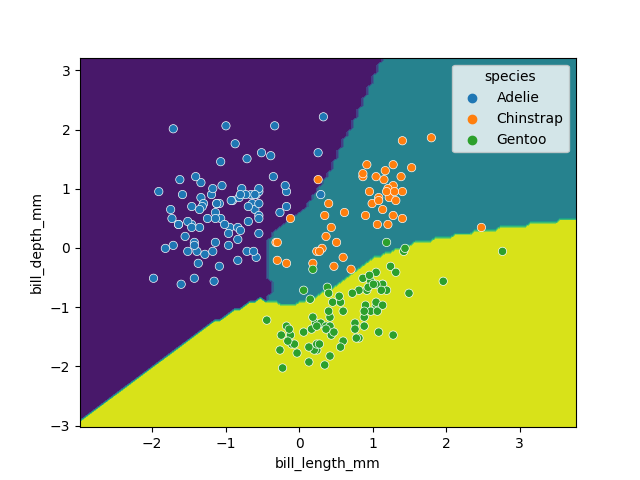
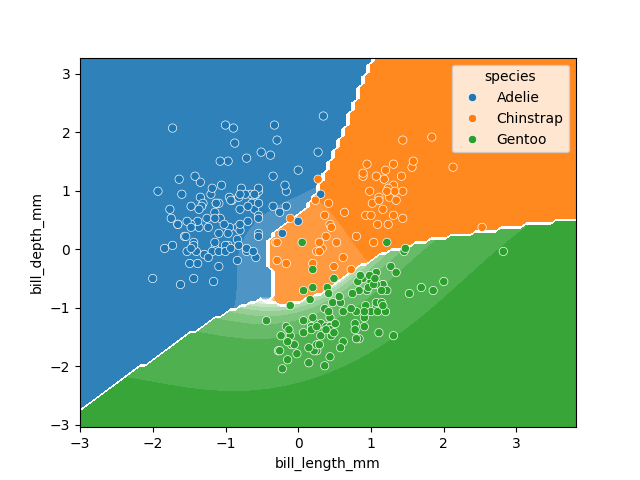
markdown source builds
Auto-generated via `{sandpaper}`
Source  : 87ff566480272c3a399abc1b97865478ae7ffe02
Branch  : main
Author  : Sam Mangham <mangham@gmail.com>
Time    : 2026-03-17 09:34:42 +0000
Message : Merge pull request #2 from SRSG-Workshops/ep03-classification

Regression tweaks

diff --git a/03-classification.md b/03-classification.md
@@ -30,7 +30,12 @@ As a rule of thumb for ML/DL modelling, it is best to start with a simple model 
 
 For this lesson we will limit our dataset to only numerical values such as bill\_length, bill\_depth, flipper\_length, and body\_mass while we attempt to classify species.
 
-The above table contains multiple categorical objects such as species. If we attempt to include the other categorical fields, island and sex, we might hinder classification performance due to the complexity of the data.
+The above table contains multiple categorical objects such as species. 
+If we attempt to include the other categorical fields, island and sex, 
+we might hinder classification performance due to the complexity of the data. 
+In addition, some variables may 'effectively' classify in a way that is not meaningful.
+s the penguin species are fairly geographically separated, including location might result in the classifier mostly just using location to identify the species.
+This is not helpful if we're trying to identify penguins that are out of place.
 
 ### Preprocessing our data
 
@@ -102,7 +107,7 @@ In order to better understand how a model might classify this data, we can first
 ```python
 import matplotlib.pyplot as plt
 
-fig01 = sns.scatterplot(X_train, x=feature_names[0], y=feature_names[1], hue=dataset['species'])
+sns.scatterplot(X_train, x=feature_names[0], y=feature_names[1], hue=dataset['species'])
 plt.show()
 ```
 
@@ -164,7 +169,14 @@ plt.show()
 
 ![](fig/e3_dt_2.png){alt='Decision tree for classifying penguins'}
 
+
 The first first question (`depth=1`) splits the training data into "Adelie" and "Gentoo" categories using the criteria `flipper_length_mm <= 206.5`, and the next two questions (`depth=2`) split the "Adelie" and "Gentoo" categories into "Adelie \& Chinstrap" and "Gentoo \& Chinstrap" predictions.
+
+The colour of each leaf in the tree shows the most likely classification, 
+with the intensity of that colour corresponding to how likely it is. 
+We can see that the first check, for short flipper length, gives a very likely classification of Gentoo.
+Even though that branch of the tree can also classify into Chinstrap or Adele, 
+looking at the number of samples for each leaf shows that Gentoo is much more likely.
 
 <!-- We can see from this that there's some very tortuous logic being used to tease out every single observation in the training set. For example, the single purple Gentoo node at the bottom of the tree. If we truncated that branch to the second level (Chinstrap), we'd have a little inaccuracy, a total of 9 non-Chinstraps in with 48 Chinstraps, but a less convoluted model.
 
@@ -187,11 +199,25 @@ clf.fit(X_train[[f1, f2]], y_train)
 
 d = DecisionBoundaryDisplay.from_estimator(clf, X_train[[f1, f2]])
 
-sns.scatterplot(X_train, x=f1, y=f2, hue=y_train, palette="husl")
+sns.scatterplot(
+  data=penguins.loc[X_train.index].sort_values("species"), 
+  x=f1, y=f2, hue="species"
+  )
 plt.show()
 ```
 
 ![](fig/e3_dt_space_2.png){alt='Classification space for our decision tree'}
+
+:::::::::: callout
+### Consistency & Randomness
+
+The colours of the estimator are based on the category names, in alphabetical order.
+However, the colours of the *scatter plot* are based on the category names, in the order they are encountered.
+As the training data is selected randomly, it is likely that the samples will not be in alphabetical order by species!
+
+In order to match up the colouring between the estimator and scatter points,
+to make the plot easier to read, we use the original dataframe, and just select the rows we used to train on.
+::::::::::::::::::
 
 
 :::::::::::::::::::::::::::::::::::::::  challenge
@@ -255,7 +281,7 @@ plot_tree(clf, class_names=class_names, feature_names=feature_names, filled=True
 plt.show()
 ```
 
-![](fig/e3_dt_6.png){alt='Simplified decision tree'}
+![](fig/e3_dt_5.png){alt='Simplified decision tree'}
 
 It looks like our decision tree has split up the training data into the correct penguin categories and more accurately than the `max_depth=2` model did, however it used some very specific questions to split up the penguins into the correct categories. 
 
@@ -274,7 +300,7 @@ sns.scatterplot(X_train, x=f1, y=f2, hue=y_train, palette='husl')
 plt.show()
 ```
 
-![](fig/e3_dt_space_6.png){alt='Classification space of the simplified decision tree'}
+![](fig/e3_dt_space_5.png){alt='Classification space of the simplified decision tree'}
 
 Earlier we saw that the `max_depth=2` model split the data into 3 simple bounding boxes, whereas for `max_depth=5` we see the model has created some very specific classification boundaries to correctly classify every point in the training data.
 
